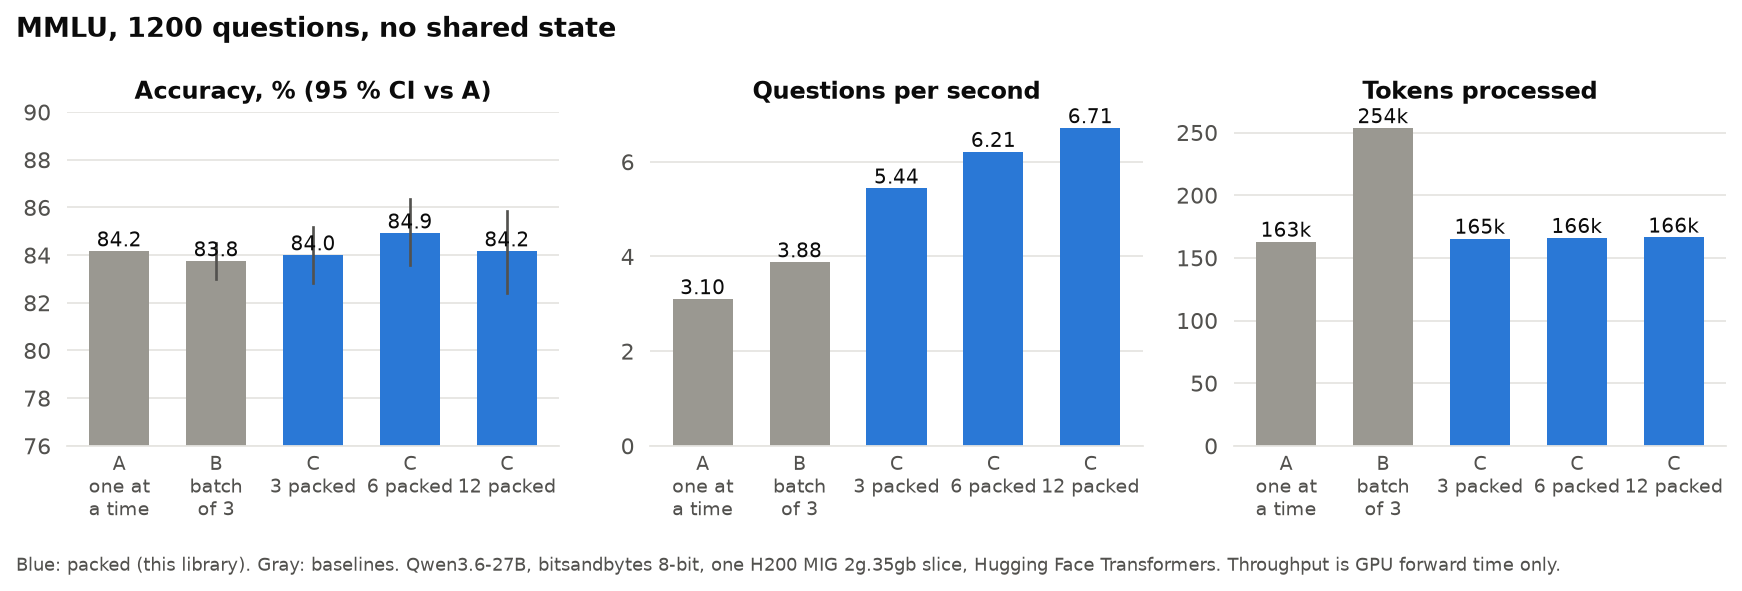
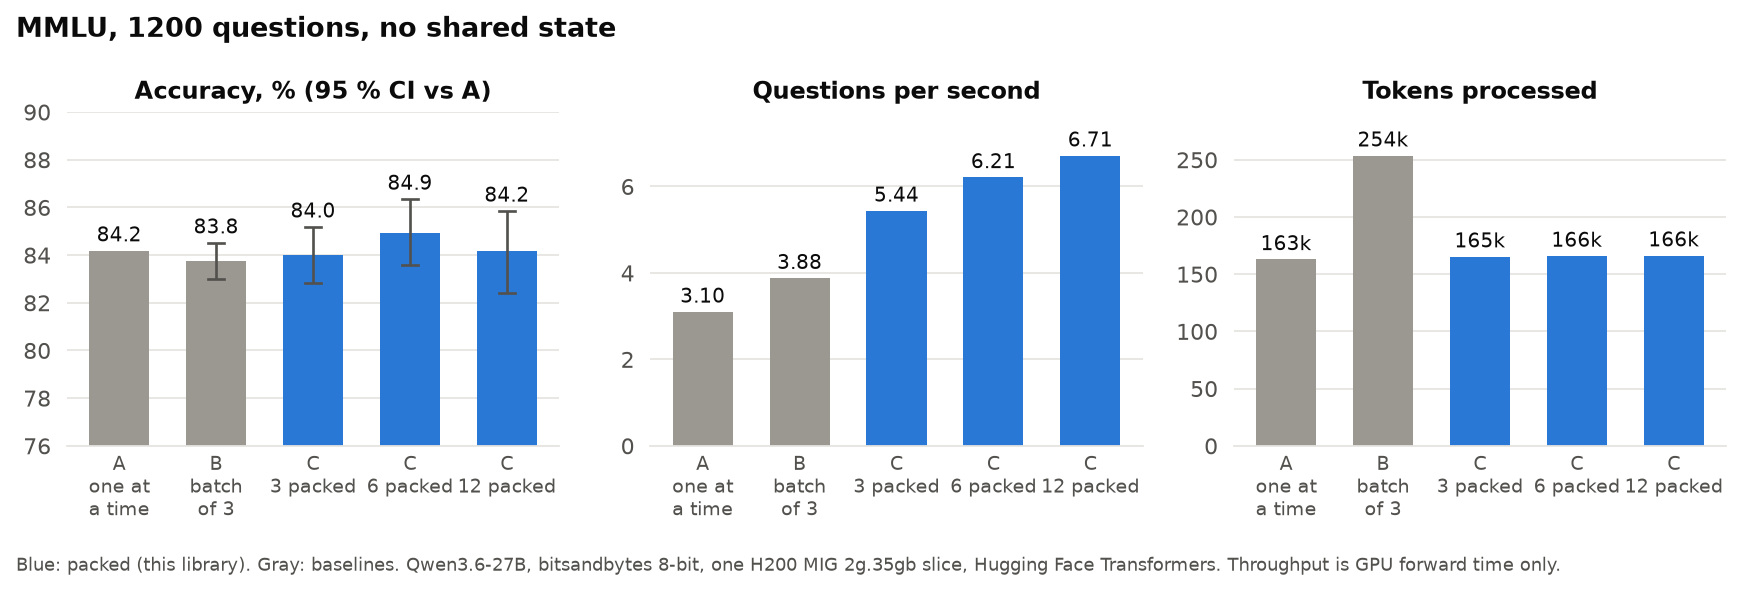
Figures: value labels above confidence intervals, headroom on bar panels

diff --git a/benchmarks/scripts/make_figures.py b/benchmarks/scripts/make_figures.py
@@ -34,16 +34,20 @@ mmlu_an = json.loads((ROOT / "results/v2_mmlu_32679038/analysis.json").read_text
 def bars(ax, labels, values, colors, fmt, ylim=None, ci=None):
     x = range(len(labels))
     b = ax.bar(x, values, color=colors, width=0.62)
+    tops = list(values)
     if ci is not None:
         for i, (lo, hi) in enumerate(ci):
             if lo is not None:
-                ax.plot([i, i], [lo, hi], color=INK2, linewidth=1.2)
-    for rect, v in zip(b, values):
-        ax.text(rect.get_x() + rect.get_width() / 2, rect.get_height(), fmt(v), ha="center", va="bottom",
+                ax.plot([i, i], [lo, hi], color=INK2, linewidth=1.2, solid_capstyle="butt")
+                ax.plot([i - 0.08, i + 0.08], [hi, hi], color=INK2, linewidth=1.2)
+                ax.plot([i - 0.08, i + 0.08], [lo, lo], color=INK2, linewidth=1.2)
+                tops[i] = max(tops[i], hi)
+    span = (ylim[1] - ylim[0]) if ylim else max(values)
+    for rect, v, top in zip(b, values, tops):
+        ax.text(rect.get_x() + rect.get_width() / 2, top + 0.015 * span, fmt(v), ha="center", va="bottom",
                 fontsize=9, color=INK)
     ax.set_xticks(list(x), labels, fontsize=8.5)
-    if ylim:
-        ax.set_ylim(*ylim)
+    ax.set_ylim(*ylim) if ylim else ax.set_ylim(0, max(tops) * 1.15)
     ax.tick_params(axis="x", length=0)
 
 
